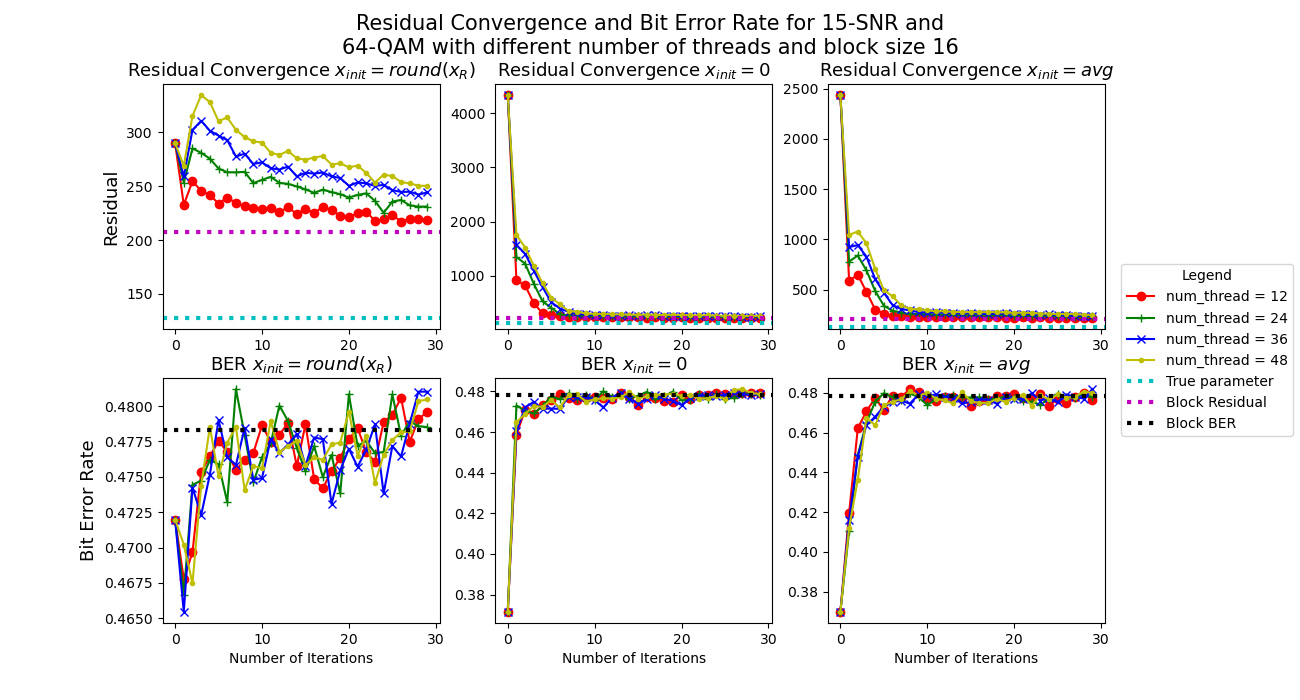
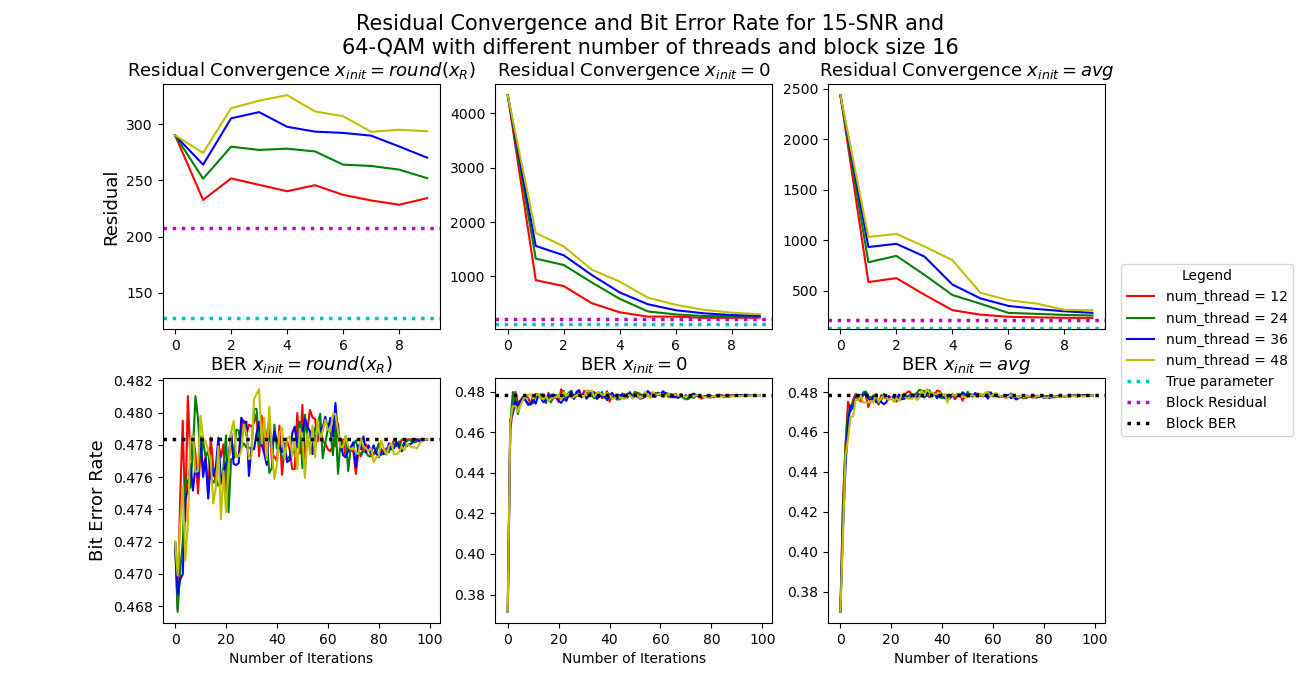
update cluster version; make backups

diff --git a/results/2020_12_11/plot_helper.py b/results/2020_12_11/plot_helper.py
@@ -10,7 +10,7 @@ import pandas as pd
 def plot_residual(n, f, file):
     lines = file.readlines()
     k = 6
-    for j in range(1, 3):
+    for j in range(1, 2):
         plt.rcParams["figure.figsize"] = (13, 7)
         fig, axes = plt.subplots(2, 3, constrained_layout=True)
         print(lines[k])
@@ -42,11 +42,11 @@ def plot_residual(n, f, file):
                 if SNR == 35:
                     if init + 1 == 0:
                         axes[0, init + 1].semilogy(range(0, 10), np.array(res)[0:10], color=color[m],
-                                               marker=marker[m], label='num_thread = ' + str(num_thread))
+                                                   marker=marker[m], label='num_thread = ' + str(num_thread))
 
                     else:
                         axes[0, init + 1].semilogy(range(0, 10), np.array(res)[0:10], color=color[m],
-                                               marker=marker[m])
+                                                   marker=marker[m])
                         # axes[0, init + 1].axhline(y=init_res, xmin=0.0, xmax=1.0, color='r', linewidth=3,
                         #                           linestyle='dotted')
                         # axes[0, init + 1].axhline(y=ser_res, xmin=0.0, xmax=1.0, color='y', linewidth=3,
@@ -71,34 +71,34 @@ def plot_residual(n, f, file):
                                            marker=marker[m])
                 else:
                     if init + 1 == 0:
-                        axes[0, init + 1].plot(range(0, 30), np.array(res)[0:30], color=color[m],
-                                                   marker=marker[m], label='num_thread = ' + str(num_thread))
+                        axes[0, init + 1].plot(range(0, 10), np.array(res)[0:10], color=color[m],
+                                               label='num_thread = ' + str(num_thread))  # marker=marker[m],
 
                     else:
-                        axes[0, init + 1].plot(range(0, 30), np.array(res)[0:30], color=color[m],
-                                                   marker=marker[m])
+                        axes[0, init + 1].plot(range(0, 10), np.array(res)[0:10], color=color[m])
                         # axes[0, init + 1].axhline(y=init_res, xmin=0.0, xmax=1.0, color='r', linewidth=3,
                         #                           linestyle='dotted')
                         # axes[0, init + 1].axhline(y=ser_res, xmin=0.0, xmax=1.0, color='y', linewidth=3,
                         #                           linestyle='dotted')
 
-                    axes[1, init + 1].plot(range(0, 30), np.array(ber)[0:30], color=color[m],
-                                           marker=marker[m])
+                    axes[1, init + 1].plot(range(0, 100), np.array(ber)[0:100], color=color[m])
+                    if f == 1 and SNR == 15:
+                        axes[1, init + 1].set_ylim(0.4, 0.6)
 
                 k = k + 1
 
             if init + 1 == 0:
-                axes[0, init + 1].axhline(y=init_res, xmin=0.0, xmax=1.0, color='c', linewidth=3,
+                axes[0, init + 1].axhline(y=init_res, xmin=0.0, xmax=1.0, color='c', linewidth=2.5,
                                           linestyle='dotted',
                                           label='True parameter')
-                axes[0, init + 1].axhline(y=ser_res, xmin=0.0, xmax=1.0, color='m', linewidth=3, linestyle='dotted',
+                axes[0, init + 1].axhline(y=ser_res, xmin=0.0, xmax=1.0, color='m', linewidth=2.5, linestyle='dotted',
                                           label='Block Residual')
-                axes[1, init + 1].axhline(y=ser_ber, xmin=0.0, xmax=1.0, color='k', linewidth=3, linestyle='dotted',
+                axes[1, init + 1].axhline(y=ser_ber, xmin=0.0, xmax=1.0, color='k', linewidth=2.5, linestyle='dotted',
                                           label='Block BER')
             else:
-                axes[0, init + 1].axhline(y=init_res, xmin=0.0, xmax=1.0, color='c', linewidth=3, linestyle='dotted')
-                axes[0, init + 1].axhline(y=ser_res, xmin=0.0, xmax=1.0, color='m', linewidth=3, linestyle='dotted', )
-                axes[1, init + 1].axhline(y=ser_ber, xmin=0.0, xmax=1.0, color='k', linewidth=3, linestyle='dotted', )
+                axes[0, init + 1].axhline(y=init_res, xmin=0.0, xmax=1.0, color='c', linewidth=2.5, linestyle='dotted')
+                axes[0, init + 1].axhline(y=ser_res, xmin=0.0, xmax=1.0, color='m', linewidth=2.5, linestyle='dotted', )
+                axes[1, init + 1].axhline(y=ser_ber, xmin=0.0, xmax=1.0, color='k', linewidth=2.5, linestyle='dotted', )
 
             # axes[0, init + 1].legend(loc="upper right")
             # axes[1, init + 1].legend(loc="center right")
@@ -147,7 +147,7 @@ def plot_runtime(n, f, stop, file):
         print(lines[k].split(","))
         SNR = int(lines[k].split(":")[1].split("\n")[0])
         init_res = float(lines[k + 1].split(",")[0].split(":")[1].split("\n")[0])
-        k = k + 6
+        k = k + 10
 
         axes2[j, 0].set_title('Iterations ' + str(SNRs[j]) + '-SNR', fontsize=13)
         axes2[j, 1].set_title('Residual ' + str(SNRs[j]) + '-SNR', fontsize=13)
@@ -157,7 +157,9 @@ def plot_runtime(n, f, stop, file):
         axes2[j, 0].set_ylabel('Avg. Iterations', fontsize=13)
         axes2[j, 1].set_ylabel('Avg. Residual', fontsize=13)
         axes2[j, 2].set_ylabel('Avg. BER', fontsize=13)
-        axes2[j, 3].set_ylabel('Avg. Running Time', fontsize=13)
+        axes2[j, 3].set_ylabel('Total Running Time (seconds)', fontsize=13)
+        ax = axes2[j, 3].twinx()
+        ax.set_ylabel('Avg. Running Time (seconds)', fontsize=13)
 
         for x in range(0, 3):
             print(lines[k].split(","))
@@ -205,14 +207,26 @@ def plot_runtime(n, f, stop, file):
                              color=color[x], marker=marker[x], label=labels[init_value + 1])
             axes2[j, 2].plot(['Babai', 'B-seq', 'NT-12', 'NT-24', 'NT-36', 'NT-48'], omp_ber,
                              color=color[x], marker=marker[x], label=labels[init_value + 1])
-            axes2[j, 3].semilogy(['Babai', 'B-seq', 'NT-12', 'NT-24', 'NT-36', 'NT-48'], omp_tim,
-                                 color=color[x], marker=marker[x], label=labels[init_value + 1])
+            axes2[j, 3].plot(['Babai', 'B-seq', 'NT-12', 'NT-24', 'NT-36', 'NT-48'], omp_tim,
+                             color=color[x], marker=marker[x], label=labels[init_value + 1])
+            if SNR == 15:
+                axes2[j, 3].set_ylim(130, 450)
+                ax.set_ylim(130 / 2000, 450 / 2000)
+                if f == 3:
+                    axes2[j, 2].set_ylim(0.4, 0.5)
+            if SNR == 35:
+                if f == 1:
+                    axes2[j, 1].set_ylim(2, 4)
+                    axes2[j, 2].set_ylim(-0.0001, 0.001)
+
+                axes2[j, 3].set_ylim(130, 400)
+                ax.set_ylim(130 / 2000, 400 / 2000)
 
             axes2[j, 0].legend(loc="upper left")
             axes2[0, 1].legend(loc="center right")
             axes2[1, 1].legend(loc="upper right")
-            axes2[j, 2].legend(loc="upper right")
-            axes2[j, 3].legend(loc="upper right")
+            axes2[j, 2].legend(loc="center right")
+            axes2[j, 3].legend(loc="lower left")
 
             k = k + 3
 
@@ -241,9 +255,9 @@ def plot_res(n):
         file = open(str(n) + '_' + str(f) + '_res.out', 'r')
         plot_residual(n, f, file)
 
-        # for stop in stops:
-        #     file = open(str(n) + '_' + str(f) + '_plot_' + str(stop) + '.out', 'r')
-        #     plot_runtime(n, f, stop, file)
+        for stop in stops:
+            file = open(str(n) + '_' + str(f) + '_plot_' + str(stop) + '.out', 'r')
+            plot_runtime(n, f, stop, file)
 
 
 if __name__ == "__main__":

diff --git a/babai_asyn_c++/src/source/cils_block_search.cpp b/babai_asyn_c++/src/source/cils_block_search.cpp
@@ -91,7 +91,7 @@ namespace cils {
             //todo: Change it to omp version
             return cils_babai_search_serial(z_B);
         }
-        index count = 0, num_iter = 0, n_dx_q_0, n_dx_q_1;
+        index count = 0, num_iter = 0, n_dx_q_0, n_dx_q_1, x_max = n_proc;
         scalar res = 0, nres = 10, sum = 0;
 
         vector<scalar> y(dx, 0), y_n(dx, 0);
@@ -107,29 +107,32 @@ namespace cils {
             y.assign(dx, 0);
             x.assign(dx, 0);
             for (index j = 0; j < nswp && abs(nres) > stop; j++) {//
-#pragma omp for nowait
+#pragma omp for schedule(dynamic) nowait
 //#pragma omp for nowait //schedule(dynamic)guided
                 for (index i = 0; i < ds; i++) {
-                    n_dx_q_0 = i == 0 ? n - dx : n - d->at(ds - 1 - i);
-                    n_dx_q_1 = i == 0 ? n : n - d->at(ds - i);
-                    //The block operation
-                    if (i != 0) {
-                        for (index row = n_dx_q_0; row < n_dx_q_1; row++) {
-                            sum = 0;
+                    if (i <= x_max) {
+                        n_dx_q_0 = i == 0 ? n - dx : n - d->at(ds - 1 - i);
+                        n_dx_q_1 = i == 0 ? n : n - d->at(ds - i);
+                        //The block operation
+                        if (i != 0) {
+                            for (index row = n_dx_q_0; row < n_dx_q_1; row++) {
+                                sum = 0;
 #pragma omp simd reduction(+ : sum)
-                            for (index col = n_dx_q_1; col < n; col++) {
-                                //Translating the index from R(matrix) to R_B(compressed array).
-                                sum += R_A->x[(n * row) + col - ((row * (row + 1)) / 2)] * z_B->at(col);
+                                for (index col = n_dx_q_1; col < n; col++) {
+                                    //Translating the index from R(matrix) to R_B(compressed array).
+                                    sum += R_A->x[(n * row) + col - ((row * (row + 1)) / 2)] * z_B->at(col);
+                                }
+                                y[row - n_dx_q_0] = y_A->x[row] - sum;
                             }
-                            y[row - n_dx_q_0] = y_A->x[row] - sum;
+                            ils_search_omp(n_dx_q_0, n_dx_q_1, &y, &x);
+                        } else {
+                            ils_search_omp(n_dx_q_0, n_dx_q_1, &y_n, &x);
                         }
-                        ils_search_omp(n_dx_q_0, n_dx_q_1, &y, &x);
-                    } else {
-                        ils_search_omp(n_dx_q_0, n_dx_q_1, &y_n, &x);
-                    }
+                        x_max++;
 #pragma omp simd
-                    for (index l = n_dx_q_0; l < n_dx_q_1; l++) {
-                        z_B->at(l) = x[l - n_dx_q_0];
+                        for (index l = n_dx_q_0; l < n_dx_q_1; l++) {
+                            z_B->at(l) = x[l - n_dx_q_0];
+                        }
                     }
                 }
 //                }

diff --git a/babai_asyn_cluster/src/source/cils_block_search.cpp b/babai_asyn_cluster/src/source/cils_block_search.cpp
@@ -91,7 +91,7 @@ namespace cils {
             //todo: Change it to omp version
             return cils_babai_search_serial(z_B);
         }
-        index count = 0, num_iter = 0, n_dx_q_0, n_dx_q_1;
+        index count = 0, num_iter = 0, n_dx_q_0, n_dx_q_1, x_max = n_proc;
         scalar res = 0, nres = 10, sum = 0;
 
         vector<scalar> y(dx, 0), y_n(dx, 0);
@@ -107,29 +107,32 @@ namespace cils {
             y.assign(dx, 0);
             x.assign(dx, 0);
             for (index j = 0; j < nswp && abs(nres) > stop; j++) {//
-#pragma omp for nowait
+#pragma omp for schedule(dynamic) nowait
 //#pragma omp for nowait //schedule(dynamic)guided
                 for (index i = 0; i < ds; i++) {
-                    n_dx_q_0 = i == 0 ? n - dx : n - d->at(ds - 1 - i);
-                    n_dx_q_1 = i == 0 ? n : n - d->at(ds - i);
-                    //The block operation
-                    if (i != 0) {
-                        for (index row = n_dx_q_0; row < n_dx_q_1; row++) {
-                            sum = 0;
+                    if (i <= x_max) {
+                        n_dx_q_0 = i == 0 ? n - dx : n - d->at(ds - 1 - i);
+                        n_dx_q_1 = i == 0 ? n : n - d->at(ds - i);
+                        //The block operation
+                        if (i != 0) {
+                            for (index row = n_dx_q_0; row < n_dx_q_1; row++) {
+                                sum = 0;
 #pragma omp simd reduction(+ : sum)
-                            for (index col = n_dx_q_1; col < n; col++) {
-                                //Translating the index from R(matrix) to R_B(compressed array).
-                                sum += R_A->x[(n * row) + col - ((row * (row + 1)) / 2)] * z_B->at(col);
+                                for (index col = n_dx_q_1; col < n; col++) {
+                                    //Translating the index from R(matrix) to R_B(compressed array).
+                                    sum += R_A->x[(n * row) + col - ((row * (row + 1)) / 2)] * z_B->at(col);
+                                }
+                                y[row - n_dx_q_0] = y_A->x[row] - sum;
                             }
-                            y[row - n_dx_q_0] = y_A->x[row] - sum;
+                            ils_search_omp(n_dx_q_0, n_dx_q_1, &y, &x);
+                        } else {
+                            ils_search_omp(n_dx_q_0, n_dx_q_1, &y_n, &x);
                         }
-                        ils_search_omp(n_dx_q_0, n_dx_q_1, &y, &x);
-                    } else {
-                        ils_search_omp(n_dx_q_0, n_dx_q_1, &y_n, &x);
-                    }
+                        x_max++;
 #pragma omp simd
-                    for (index l = n_dx_q_0; l < n_dx_q_1; l++) {
-                        z_B->at(l) = x[l - n_dx_q_0];
+                        for (index l = n_dx_q_0; l < n_dx_q_1; l++) {
+                            z_B->at(l) = x[l - n_dx_q_0];
+                        }
                     }
                 }
 //                }

diff --git a/babai_asyn_c++/src/source/cils.cpp b/babai_asyn_c++/src/source/cils.cpp
@@ -20,7 +20,7 @@ namespace cils {
     cils<scalar, index, is_read, n>::cils(index k, index snr) {
         this->R_A = (scalarType<scalar, index> *) malloc(sizeof(scalarType<scalar, index>));
         this->y_A = (scalarType<scalar, index> *) malloc(sizeof(scalarType<scalar, index>));
-        this->R_A->x = (scalar *) calloc(n * (n + 1) / 2, sizeof(scalar));
+        this->R_A->x = (scalar *) calloc(n * (n + 1) / 2 + 1, sizeof(scalar));
         this->y_A->x = (scalar *) calloc(n, sizeof(scalar));
 
         this->x_R = vector<index>(n, 0);
@@ -30,7 +30,7 @@ namespace cils {
         this->qam = k;
         this->snr = snr;
         this->sigma = (scalar) sqrt(((pow(4, k) - 1) * log2(n)) / (6 * pow(10, ((scalar) snr / 20.0))));
-        this->R_A->size = n * (n + 1) / 2;
+        this->R_A->size = n * (n + 1) / 2 + 1;
         this->y_A->size = n;
     }
 
@@ -89,7 +89,7 @@ namespace cils {
             std::uniform_int_distribution<index> int_dis(0, pow(2, qam) - 1);
 
             this->A = MatrixXd::Zero(n, n).unaryExpr([&](double dummy) { return A_norm_dis(gen); });
-            this->R = A.householderQr().matrixQR().triangularView<Eigen::Upper>();
+//            this->R = A.householderQr().matrixQR().triangularView<Eigen::Upper>();
             this->Q = A.householderQr().householderQ();
             this->x_tV = VectorXd::Zero(n).unaryExpr([&](int dummy) { return static_cast<double>(int_dis(gen)); });
             this->y = R * x_tV +
@@ -124,16 +124,17 @@ namespace cils {
         vector<index> z_B_p(n, 0), update(n, 0), work(n_proc, 0);
 
         scalar start = omp_get_wtime();
-#pragma omp parallel default(shared) num_threads(n_proc) shared(update, x_min, count)
+#pragma omp parallel default(shared) num_threads(n_proc)
         {
-            for (index j = 0; j < nswp && count <= 0; j++) {//
+            for (index j = 0; j < nswp; j++) {//&& count <= 0;
 #pragma omp for schedule(dynamic, 1) nowait
                 for (index i = 0; i < n; i++) {
                     if (i <= x_max && i >= x_min) {
 //                        if (x_max > n - i - 1) {
 //                            x_c = n - i - 1;
-                        babai_solve_omp(i, z_B, &z_B_p, &update);
                         x_max++;
+                        babai_solve_omp(i, z_B, &z_B_p, &update);
+
                         work[omp_get_thread_num()] = i;
                         count += update[n - 1 - i];
                     }

diff --git a/babai_asyn_cluster/src/source/cils.cpp b/babai_asyn_cluster/src/source/cils.cpp
@@ -20,7 +20,7 @@ namespace cils {
     cils<scalar, index, is_read, n>::cils(index k, index snr) {
         this->R_A = (scalarType<scalar, index> *) malloc(sizeof(scalarType<scalar, index>));
         this->y_A = (scalarType<scalar, index> *) malloc(sizeof(scalarType<scalar, index>));
-        this->R_A->x = (scalar *) calloc(n * (n + 1) / 2, sizeof(scalar));
+        this->R_A->x = (scalar *) calloc(n * (n + 1) / 2 + 1, sizeof(scalar));
         this->y_A->x = (scalar *) calloc(n, sizeof(scalar));
 
         this->x_R = vector<index>(n, 0);
@@ -30,7 +30,7 @@ namespace cils {
         this->qam = k;
         this->snr = snr;
         this->sigma = (scalar) sqrt(((pow(4, k) - 1) * log2(n)) / (6 * pow(10, ((scalar) snr / 20.0))));
-        this->R_A->size = n * (n + 1) / 2;
+        this->R_A->size = n * (n + 1) / 2 + 1;
         this->y_A->size = n;
     }
 
@@ -89,7 +89,7 @@ namespace cils {
             std::uniform_int_distribution<index> int_dis(0, pow(2, qam) - 1);
 
             this->A = MatrixXd::Zero(n, n).unaryExpr([&](double dummy) { return A_norm_dis(gen); });
-            this->R = A.householderQr().matrixQR().triangularView<Eigen::Upper>();
+//            this->R = A.householderQr().matrixQR().triangularView<Eigen::Upper>();
             this->Q = A.householderQr().householderQ();
             this->x_tV = VectorXd::Zero(n).unaryExpr([&](int dummy) { return static_cast<double>(int_dis(gen)); });
             this->y = R * x_tV +
@@ -124,16 +124,17 @@ namespace cils {
         vector<index> z_B_p(n, 0), update(n, 0), work(n_proc, 0);
 
         scalar start = omp_get_wtime();
-#pragma omp parallel default(shared) num_threads(n_proc) shared(update, x_min, count)
+#pragma omp parallel default(shared) num_threads(n_proc)
         {
-            for (index j = 0; j < nswp && count <= 0; j++) {//
+            for (index j = 0; j < nswp; j++) {//&& count <= 0;
 #pragma omp for schedule(dynamic, 1) nowait
                 for (index i = 0; i < n; i++) {
                     if (i <= x_max && i >= x_min) {
 //                        if (x_max > n - i - 1) {
 //                            x_c = n - i - 1;
-                        babai_solve_omp(i, z_B, &z_B_p, &update);
                         x_max++;
+                        babai_solve_omp(i, z_B, &z_B_p, &update);
+
                         work[omp_get_thread_num()] = i;
                         count += update[n - 1 - i];
                     }

diff --git a/babai_asyn_c++/src/example/ils_block_search.cpp b/babai_asyn_c++/src/example/ils_block_search.cpp
@@ -42,22 +42,22 @@ void ils_block_search(index k, index SNR) {
             ber = cils::find_bit_error_rate<scalar, index, n>(&reT.x, &cils.x_t, false);
             printf("Method: BAB_SER, Res: %.5f, BER: %.5f, Time: %.5fs\n", res, ber, reT.run_time);
             scalar ser_tim = reT.run_time;
-
-            for (index n_proc = 4; n_proc <= 12; n_proc += 4) {
+            index iter = 2;
+            for (index n_proc = 4; n_proc <= 16; n_proc += 4) {
                 z_B.assign(n, 0);
-                reT = cils.cils_babai_search_omp(n_proc, 20, &z_B);
+                reT = cils.cils_babai_search_omp(n_proc, 5, &z_B);
                 res = cils::find_residual<scalar, index, n>(cils.R_A, cils.y_A, &reT.x);
                 ber = cils::find_bit_error_rate<scalar, index, n>(&reT.x, &cils.x_t, false);
                 printf("Method: BAB_OMP, n_proc: %d, Res: %.5f, BER: %.5f, Num_iter: %d, Time: %.5fs, SpeedUp: %.3f\n",
                        n_proc, res, ber, reT.num_iter, reT.run_time, (ser_tim / reT.run_time));
             }
-            for (index n_proc = 4; n_proc <= 12; n_proc += 4) {
+            for (index n_proc = 4; n_proc <= 16; n_proc += 4) {
                 z_B.assign(n, 0);
 //                for (index t = 0; t < n; t++) {
 //                    z_B[t] = pow(2, k) / 2;
 //                }
 
-                reT = cils.cils_block_search_omp(n_proc, 6, 0, &z_B, &d_s);
+                reT = cils.cils_block_search_omp(n_proc, 5, -1, &z_B, &d_s);
                 res = cils::find_residual<scalar, index, n>(cils.R_A, cils.y_A, &reT.x);
                 ber = cils::find_bit_error_rate<scalar, index, n>(&reT.x, &cils.x_t, false);
                 printf("Method: ILS_OMP, n_proc: %d, Res: %.5f, BER: %.5f, Num_iter: %d, Time: %.5fs, SpeedUp: %.3f\n",

diff --git a/babai_asyn_cluster/src/example/ils_block_search.cpp b/babai_asyn_cluster/src/example/ils_block_search.cpp
@@ -45,7 +45,7 @@ void ils_block_search(index k, index SNR) {
 
             for (index n_proc = 12; n_proc <= 48; n_proc += 12) {
                 z_B.assign(n, 0);
-                reT = cils.cils_babai_search_omp(n_proc, 20, &z_B);
+                reT = cils.cils_babai_search_omp(n_proc, 5, &z_B);
                 res = cils::find_residual<scalar, index, n>(cils.R_A, cils.y_A, &reT.x);
                 ber = cils::find_bit_error_rate<scalar, index, n>(&reT.x, &cils.x_t, false);
                 printf("Method: BAB_OMP, n_proc: %d, Res: %.5f, BER: %.5f, Num_iter: %d, Time: %.5fs, SpeedUp: %.3f\n",
@@ -57,7 +57,7 @@ void ils_block_search(index k, index SNR) {
 //                    z_B[t] = pow(2, k) / 2;
 //                }
 
-                reT = cils.cils_block_search_omp(n_proc, 6, 0, &z_B, &d_s);
+                reT = cils.cils_block_search_omp(n_proc, 5, -1, &z_B, &d_s);
                 res = cils::find_residual<scalar, index, n>(cils.R_A, cils.y_A, &reT.x);
                 ber = cils::find_bit_error_rate<scalar, index, n>(&reT.x, &cils.x_t, false);
                 printf("Method: ILS_OMP, n_proc: %d, Res: %.5f, BER: %.5f, Num_iter: %d, Time: %.5fs, SpeedUp: %.3f\n",
